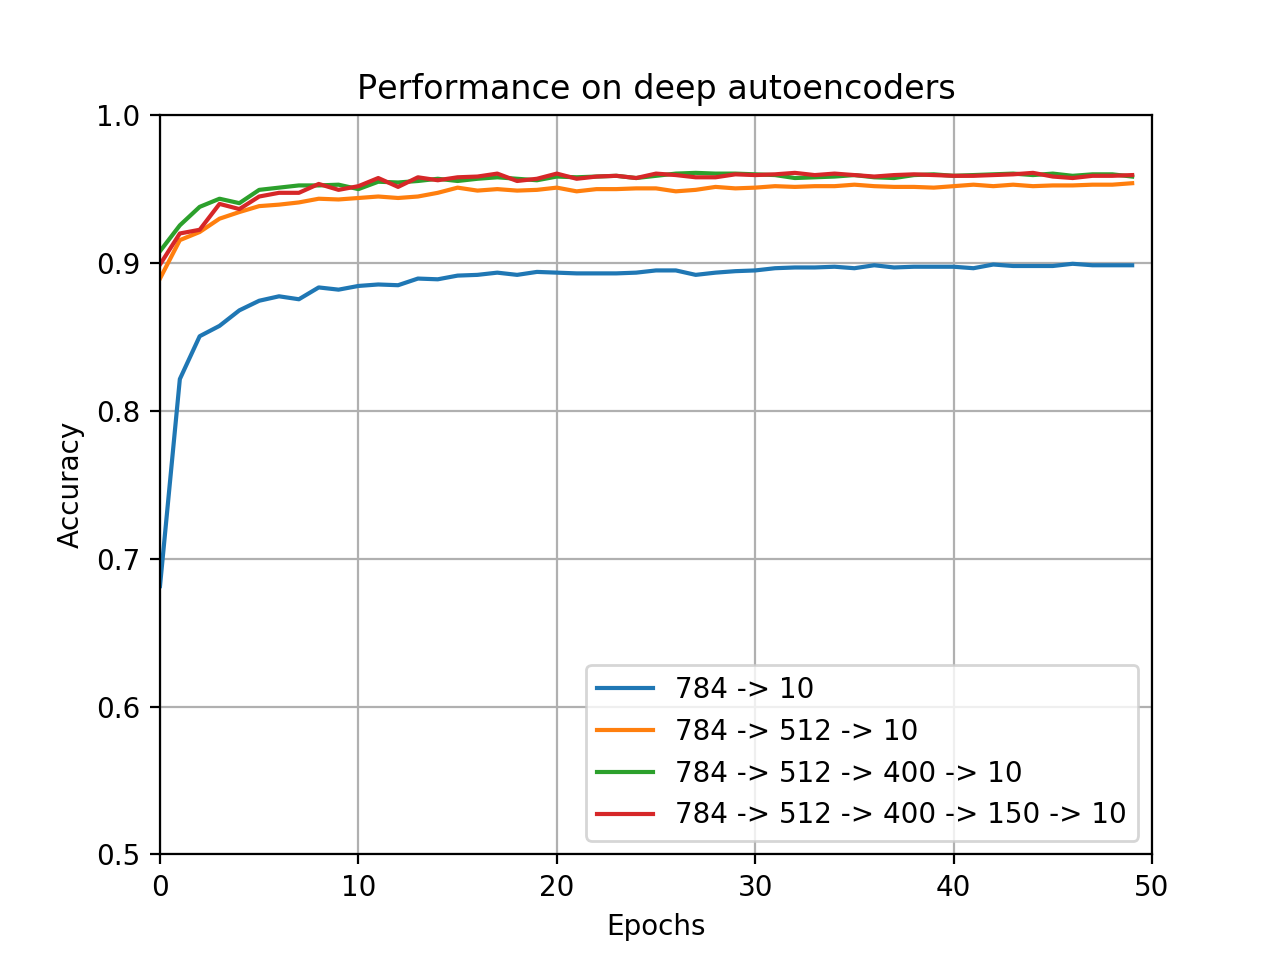
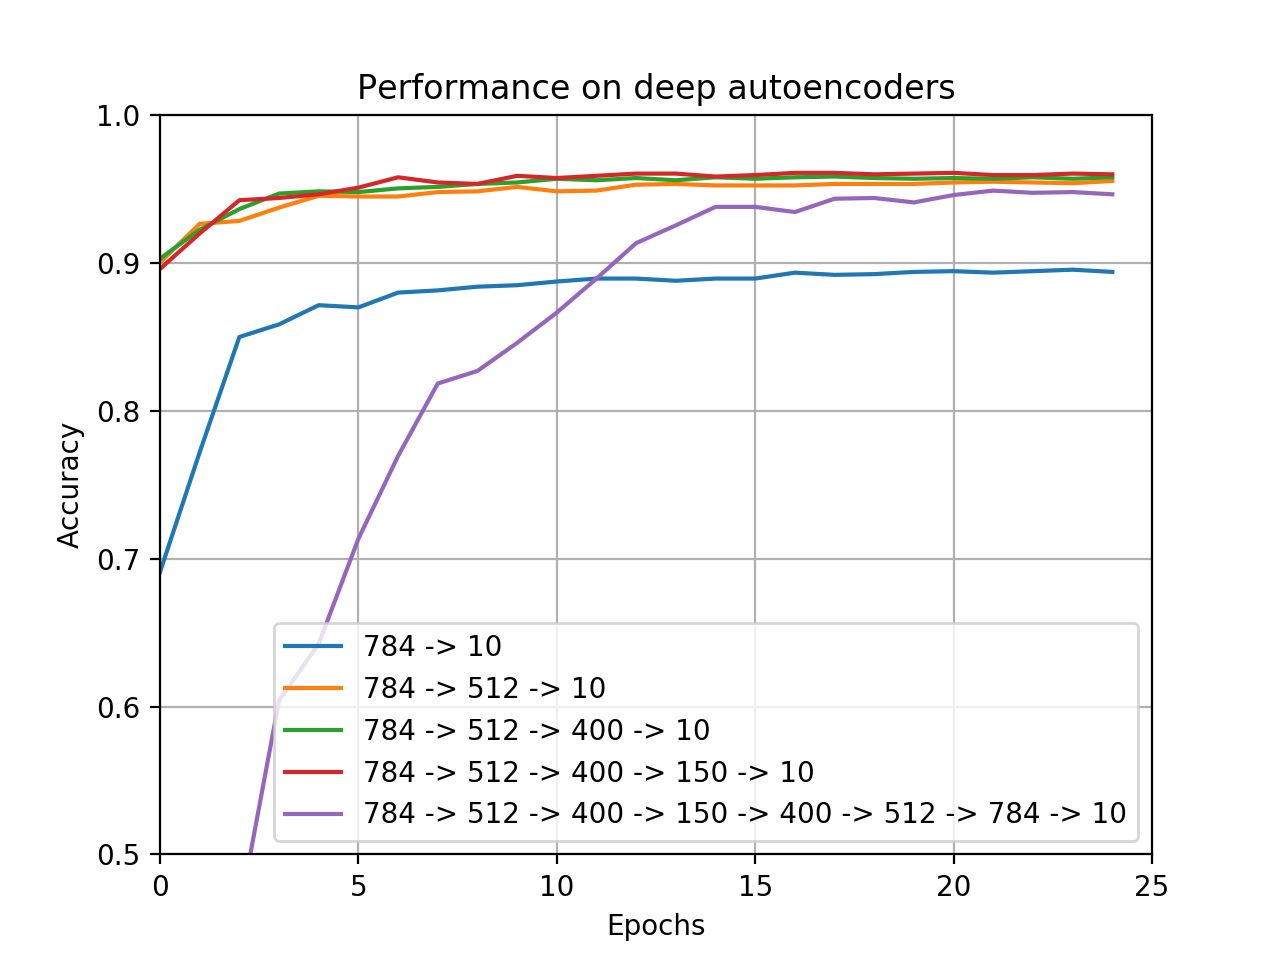
final fixes

diff --git a/experiments.py b/experiments.py
@@ -1,5 +1,5 @@
 from keras.optimizers import SGD
-from keras.utils import to_categorical
+from keras.utils import to_categorical, plot_model
 import Utils
 import numpy as np
 from autoenconder import AutoEncoder, ErrorsCallback
@@ -7,9 +7,11 @@ from keras.models import Sequential, model_from_json
 from keras.layers import Dense
 import time
 from keras import backend as K
+from sklearn.linear_model import LogisticRegression
 
 
-def ex_3_2(num_of_nodes_in_hidden_layers, n_epochs_1=10, show_hidden_weights=False):
+def ex_3_2(num_of_nodes_in_hidden_layers, n_epochs_1=10, show_hidden_weights=False, use_logistic_regression=False,
+           add_decoding_layers = False):
     x_train = np.loadtxt('binMNIST_data/bindigit_trn.csv', delimiter=',', dtype=float)
     x_test = np.loadtxt('binMNIST_data/bindigit_tst.csv', delimiter=',', dtype=float)
 
@@ -37,6 +39,7 @@ def ex_3_2(num_of_nodes_in_hidden_layers, n_epochs_1=10, show_hidden_weights=Fal
         output_train = x_train
         output_test = x_test
 
+        decoder_layers = []
         final_model = Sequential()
         if len(num_of_nodes_in_hidden_layers) == 0:
             final_model.add(Dense(784, input_shape=(784,)))
@@ -53,7 +56,6 @@ def ex_3_2(num_of_nodes_in_hidden_layers, n_epochs_1=10, show_hidden_weights=Fal
             # encoded
             encoder_layer = model1.model.layers[-3]
             final_model.add(encoder_layer)
-
             if show_hidden_weights:
                 w = encoder_layer.get_weights()[0]
                 w = np.array(w).T
@@ -65,6 +67,7 @@ def ex_3_2(num_of_nodes_in_hidden_layers, n_epochs_1=10, show_hidden_weights=Fal
                                   title='Weights for each hidden unit with {0} epochs'.format(n_epochs), dimensions=dimensions[counter])
                 counter += 1
 
+            decoder_layers.append(model1.model.layers[-1])
             # batch normalization
             final_model.add(model1.model.layers[-2])
 
@@ -75,17 +78,23 @@ def ex_3_2(num_of_nodes_in_hidden_layers, n_epochs_1=10, show_hidden_weights=Fal
 
             print(output_train.shape)
 
-        from sklearn.linear_model import LogisticRegression
-        clf = LogisticRegression(random_state=0, solver='lbfgs',
-                                 multi_class='multinomial').fit(output_train, y_train)
-        score = clf.score(output_test,y_test)
-        print("Test Accuracy using logistic with encoded data: :::", round(score, 3) * 100, "%")
+        if use_logistic_regression :
+            clf = LogisticRegression(random_state=0, solver='lbfgs',
+                                     multi_class='multinomial').fit(output_train, y_train)
+            score = clf.score(output_test,y_test)
+            print("Test Accuracy using logistic with encoded data: :::", round(score, 3) * 100, "%")
 
-        clf = LogisticRegression(random_state=0, solver='lbfgs',
-                                 multi_class='multinomial').fit(x_train, y_train)
-        score = clf.score(x_test, y_test)
-        print("Test Accuracy using logistic from the begginging: :::", round(score, 3) * 100, "%")
+            clf = LogisticRegression(random_state=0, solver='lbfgs',
+                                     multi_class='multinomial').fit(x_train, y_train)
+            score = clf.score(x_test, y_test)
+            print("Test Accuracy using logistic from the begginging: :::", round(score, 3) * 100, "%")
 
+        if add_decoding_layers:
+            for layer in reversed(decoder_layers):
+                final_model.add(layer)
+
+            reconstructed = final_model.predict(x_test)
+            Utils.plot_decoded_imgs(x_test, reconstructed, 'Reconstruction using three hidden layers')
 
 
         final_model.add(Dense(10, activation='sigmoid'))
@@ -111,7 +120,7 @@ def ex_3_2(num_of_nodes_in_hidden_layers, n_epochs_1=10, show_hidden_weights=Fal
             final_model.save_weights("model.h5")
             print("Saved model to disk")
 
-    # plot_model(final_model, to_file='model_plot.png', show_shapes=True, show_layer_names=True)
+    plot_model(final_model, to_file='model_plot.png', show_shapes=True, show_layer_names=True)
     final_model.compile(optimizer=SGD(lr=.1, decay=0.001, momentum=.85, nesterov=True), loss='mean_squared_error',
                         metrics=['accuracy'])
 
@@ -130,7 +139,7 @@ def ex_3_2(num_of_nodes_in_hidden_layers, n_epochs_1=10, show_hidden_weights=Fal
     return test_error
 
 
-def ex_3_1_v2():
+def ex_3_1():
     x_train = np.loadtxt('binMNIST_data/bindigit_trn.csv', delimiter=',', dtype=float)
     x_test = np.loadtxt('binMNIST_data/bindigit_tst.csv', delimiter=',', dtype=float)
 
@@ -255,35 +264,28 @@ def ex_3_1_v2():
 
 
 def ex_3_2_greedy():
-    n_epochs = 5
+    n_epochs = 50
 
-    ex_3_2([512], n_epochs)
+    ex_3_2([512,400,300], n_epochs, add_decoding_layers=True)
 
     # acc = []
     # acc.append(ex_3_2([], n_epochs))
     # acc.append(ex_3_2([512], n_epochs))
     # acc.append(ex_3_2([512, 400], n_epochs))
-    # acc.append(ex_3_2([529, 400, 144], n_epochs))
-
-    # legends = ['784 -> 10', '784 -> 512 -> 10', '784 -> 512 -> 400 -> 10', '784 -> 512 -> 400 -> 150 -> 10']
-    # Utils.plot_acuracy(acc, legend_names=legends, num_epochs=n_epochs, title="Performance on deep autoencoders")
-
-    # acc = []
-    # acc.append(ex_3_2([512,400,300],n_epochs))
-    # acc.append(ex_3_2([512,400, 150],n_epochs))
-    # acc.append(ex_3_2([512,400, 100],n_epochs))
+    # acc.append(ex_3_2([512, 400, 150], n_epochs))
+    # acc.append(ex_3_2([512, 400, 150], n_epochs,add_decoding_layers=True))
     #
-    # legends = ['784 -> 512 -> 300 -> 10', '784 -> 512 -> 150 -> 10', '784 -> 512 -> 100 -> 10']
-    # Utils.plot_acuracy(errors, legend_names=legends, num_epochs=n_epochs, title="Performance")
+    # legends = ['784 -> 10', '784 -> 512 -> 10', '784 -> 512 -> 400 -> 10', '784 -> 512 -> 400 -> 150 -> 10',
+    #            '784 -> 512 -> 400 -> 150 -> 400 -> 512 -> 784 -> 10']
+    # Utils.plot_acuracy(acc, legend_names=legends, num_epochs=n_epochs, title="Performance on deep autoencoders")
 
 
     # ex_3_2([529, 400, 144], n_epochs, show_hidden_weights=True)
 
 
 if __name__ == "__main__":
-    # ex_3_1_v2()
+    ex_3_1()
 
     # ex_3_2([])
-    # ex_3_2_expeirment()
 
     ex_3_2_greedy()

diff --git a/Utils.py b/Utils.py
@@ -18,8 +18,8 @@ def add_noise(x, percentage):
     return noisy
 
 
-def plot_decoded_imgs(x_test, reconstructed):
-    plt.figure(figsize=(20, 4))
+def plot_decoded_imgs(x_test, reconstructed, title = ''):
+    fig = plt.figure(figsize=(20, 4))
     plt.gray()
     counter = 0
     for i in [156, 155, 259, 1584, 154, 160, 383, 388, 253, 153]:
@@ -37,6 +37,7 @@ def plot_decoded_imgs(x_test, reconstructed):
 
         counter += 1
 
+    fig.suptitle(title)
     plt.show()
 
 
